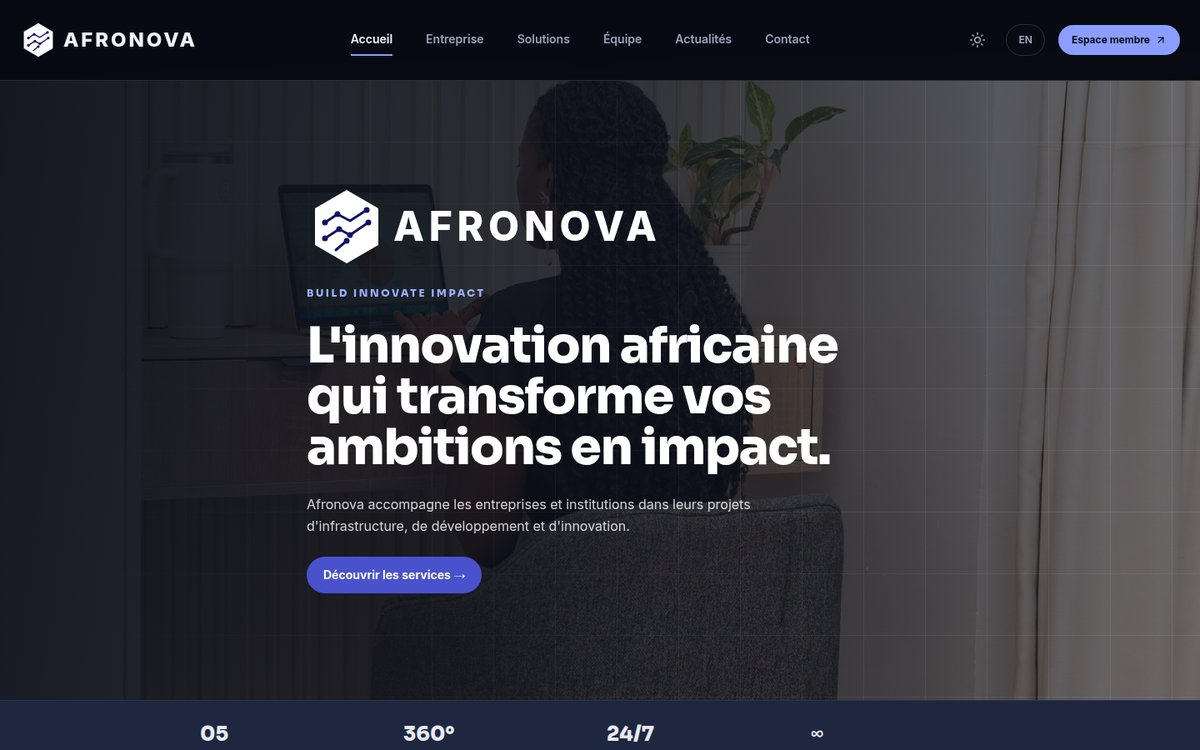
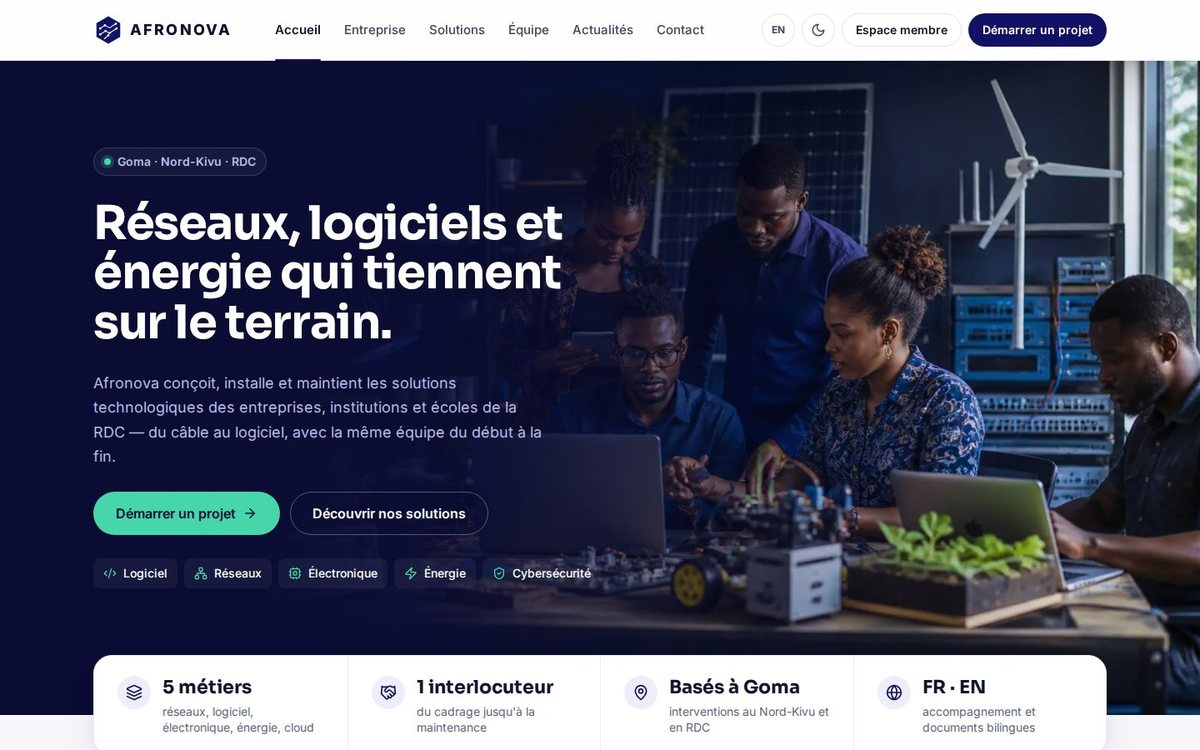
docs: add Mwangaza School to live platforms, refresh screenshots
Live platforms now come first, with Mwangaza School presented through its
live site only, and new screenshots of the redesigned Afronova and DTMS sites.

diff --git a/README.md b/README.md
@@ -24,8 +24,59 @@ I publish my work as tested, documented open source, and I teach embedded progra
 
 **Currently**
 - Completing the second year of the AI Licence at ISIG Goma
+- Building and running Mwangaza School, a school management platform for the DR Congo (Django, React, offline-first)
 - Building business platforms in TypeScript (React, Express, Prisma, PostgreSQL)
 - Bringing machine learning onto microcontrollers for predictive maintenance
+
+---
+
+## Live platforms
+
+Production web platforms I design, build and run for organisations in the DR Congo. Each one is presented through its live site.
+
+<table>
+<tr>
+<td width="50%" valign="top">
+
+<a href="https://mwangazaschool.com/"><img src="assets/mwangaza.jpg" alt="Mwangaza School website"></a>
+
+</td>
+<td width="50%" valign="top">
+
+### [Mwangaza School](https://mwangazaschool.com/)
+School management platform for schools in the DR Congo, designed with a technical school in Goma. Students and families, fees in US dollars and Congolese francs, a cash desk that prints receipts and keeps working without internet, unpaid-fee follow-up, grades and report cards, and a portal where parents follow payments on their phone.
+
+`Django` `PostgreSQL` `React` `TypeScript` `Offline-first PWA` `Docker` `AWS`
+
+</td>
+</tr>
+<tr>
+<td width="50%" valign="top">
+
+<a href="https://afronova-web.vercel.app/"><img src="assets/afronova.jpg" alt="Afronova website"></a>
+
+### [Afronova](https://afronova-web.vercel.app/)
+Bilingual website of a Goma technology company (networks, software, electronics, energy, cloud), backed by an internal business application and a client portal.
+
+`React` `TypeScript` `Express` `Prisma` `PostgreSQL`
+
+</td>
+<td width="50%" valign="top">
+
+<a href="https://dtms.site/"><img src="assets/dtms.jpg" alt="DTMS website"></a>
+
+### [DTMS: Dynamic Technology Multi Services](https://dtms.site/)
+Public website, member area and training portal for a company working in IT, telecommunications, electronics and electrical installations, running on modules for staff, projects, clients, operations and finance.
+
+`Firebase` `Firestore` `JavaScript` `Supabase`
+
+</td>
+</tr>
+</table>
+
+**[ESP32 sensor dashboard](https://domotiqueesp32-6d6d2.web.app/)**: authenticated web app that displays live readings sent by an ESP32 to the Firebase Realtime Database.
+
+These platforms share the same engineering standards: role-based access control, money handled in two currencies, audit trails, printable documents, responsive interfaces designed from mockups at phone and desktop widths, and linting, strict typing, automated tests and CI.
 
 ---
 
@@ -87,41 +138,6 @@ Linear models, CART trees, k-NN, k-means, PCA and a multilayer perceptron with h
 </td>
 </tr>
 </table>
-
----
-
-## Live platforms
-
-Production web platforms I design and maintain for organisations in the region. The source code is private; the sites are public.
-
-<table>
-<tr>
-<td width="50%" valign="top">
-
-<a href="https://afronova-web.vercel.app/"><img src="assets/afronova.jpg" alt="Afronova website"></a>
-
-### [Afronova](https://afronova-web.vercel.app/)
-Bilingual corporate website with a member area, backed by an internal business application and a client portal.
-
-`React` `TypeScript` `Express` `Prisma` `PostgreSQL`
-
-</td>
-<td width="50%" valign="top">
-
-<a href="https://dtms.site/"><img src="assets/dtms.jpg" alt="DTMS website"></a>
-
-### [DTMS: Dynamic Technology Multi Services](https://dtms.site/)
-Public website, member area and training portal for a company working in IT, telecommunications, electronics and electrical installations. It runs on modules for staff, projects, clients, operations and finance.
-
-`Firebase` `Firestore` `JavaScript` `React` `Node.js`
-
-</td>
-</tr>
-</table>
-
-**[ESP32 sensor dashboard](https://domotiqueesp32-6d6d2.web.app/)**: authenticated web app that displays live readings sent by an ESP32 to the Firebase Realtime Database.
-
-These platforms are TypeScript or JavaScript codebases with role-based access control, client portals, cash and contribution management, PDF reporting and real-time updates. They are maintained with linting, strict typing, automated tests and CI.
 
 ---
 
@@ -201,7 +217,7 @@ Each project implements its subject from first principles, ships with a test sui
 | Mathematics | Numerical analysis, statistics and hypothesis testing, linear algebra |
 | Backend | Django, Django REST Framework, Node.js, Express, Prisma, REST, JWT |
 | Front end | React, TypeScript, Vite, Tailwind CSS, HTML, CSS, JavaScript |
-| Data and infrastructure | PostgreSQL, SQLite, Firebase, relational modelling, Git, GitHub Actions, Linux, Render |
+| Data and infrastructure | PostgreSQL, SQLite, Redis, Firebase, Supabase, relational modelling, Docker, Caddy, AWS Lightsail, Render, Vercel, Git, GitHub Actions, Linux |
 
 <p>
   <img src="https://img.shields.io/badge/C++-00599C?style=flat-square&logo=cplusplus&logoColor=white" alt="C++">
@@ -217,6 +233,7 @@ Each project implements its subject from first principles, ships with a test sui
   <img src="https://img.shields.io/badge/React-20232A?style=flat-square&logo=react&logoColor=61DAFB" alt="React">
   <img src="https://img.shields.io/badge/Node.js-339933?style=flat-square&logo=nodedotjs&logoColor=white" alt="Node.js">
   <img src="https://img.shields.io/badge/PostgreSQL-4169E1?style=flat-square&logo=postgresql&logoColor=white" alt="PostgreSQL">
+  <img src="https://img.shields.io/badge/Docker-2496ED?style=flat-square&logo=docker&logoColor=white" alt="Docker">
   <img src="https://img.shields.io/badge/GitHub_Actions-2088FF?style=flat-square&logo=githubactions&logoColor=white" alt="GitHub Actions">
   <img src="https://img.shields.io/badge/Linux-FCC624?style=flat-square&logo=linux&logoColor=black" alt="Linux">
 </p>
